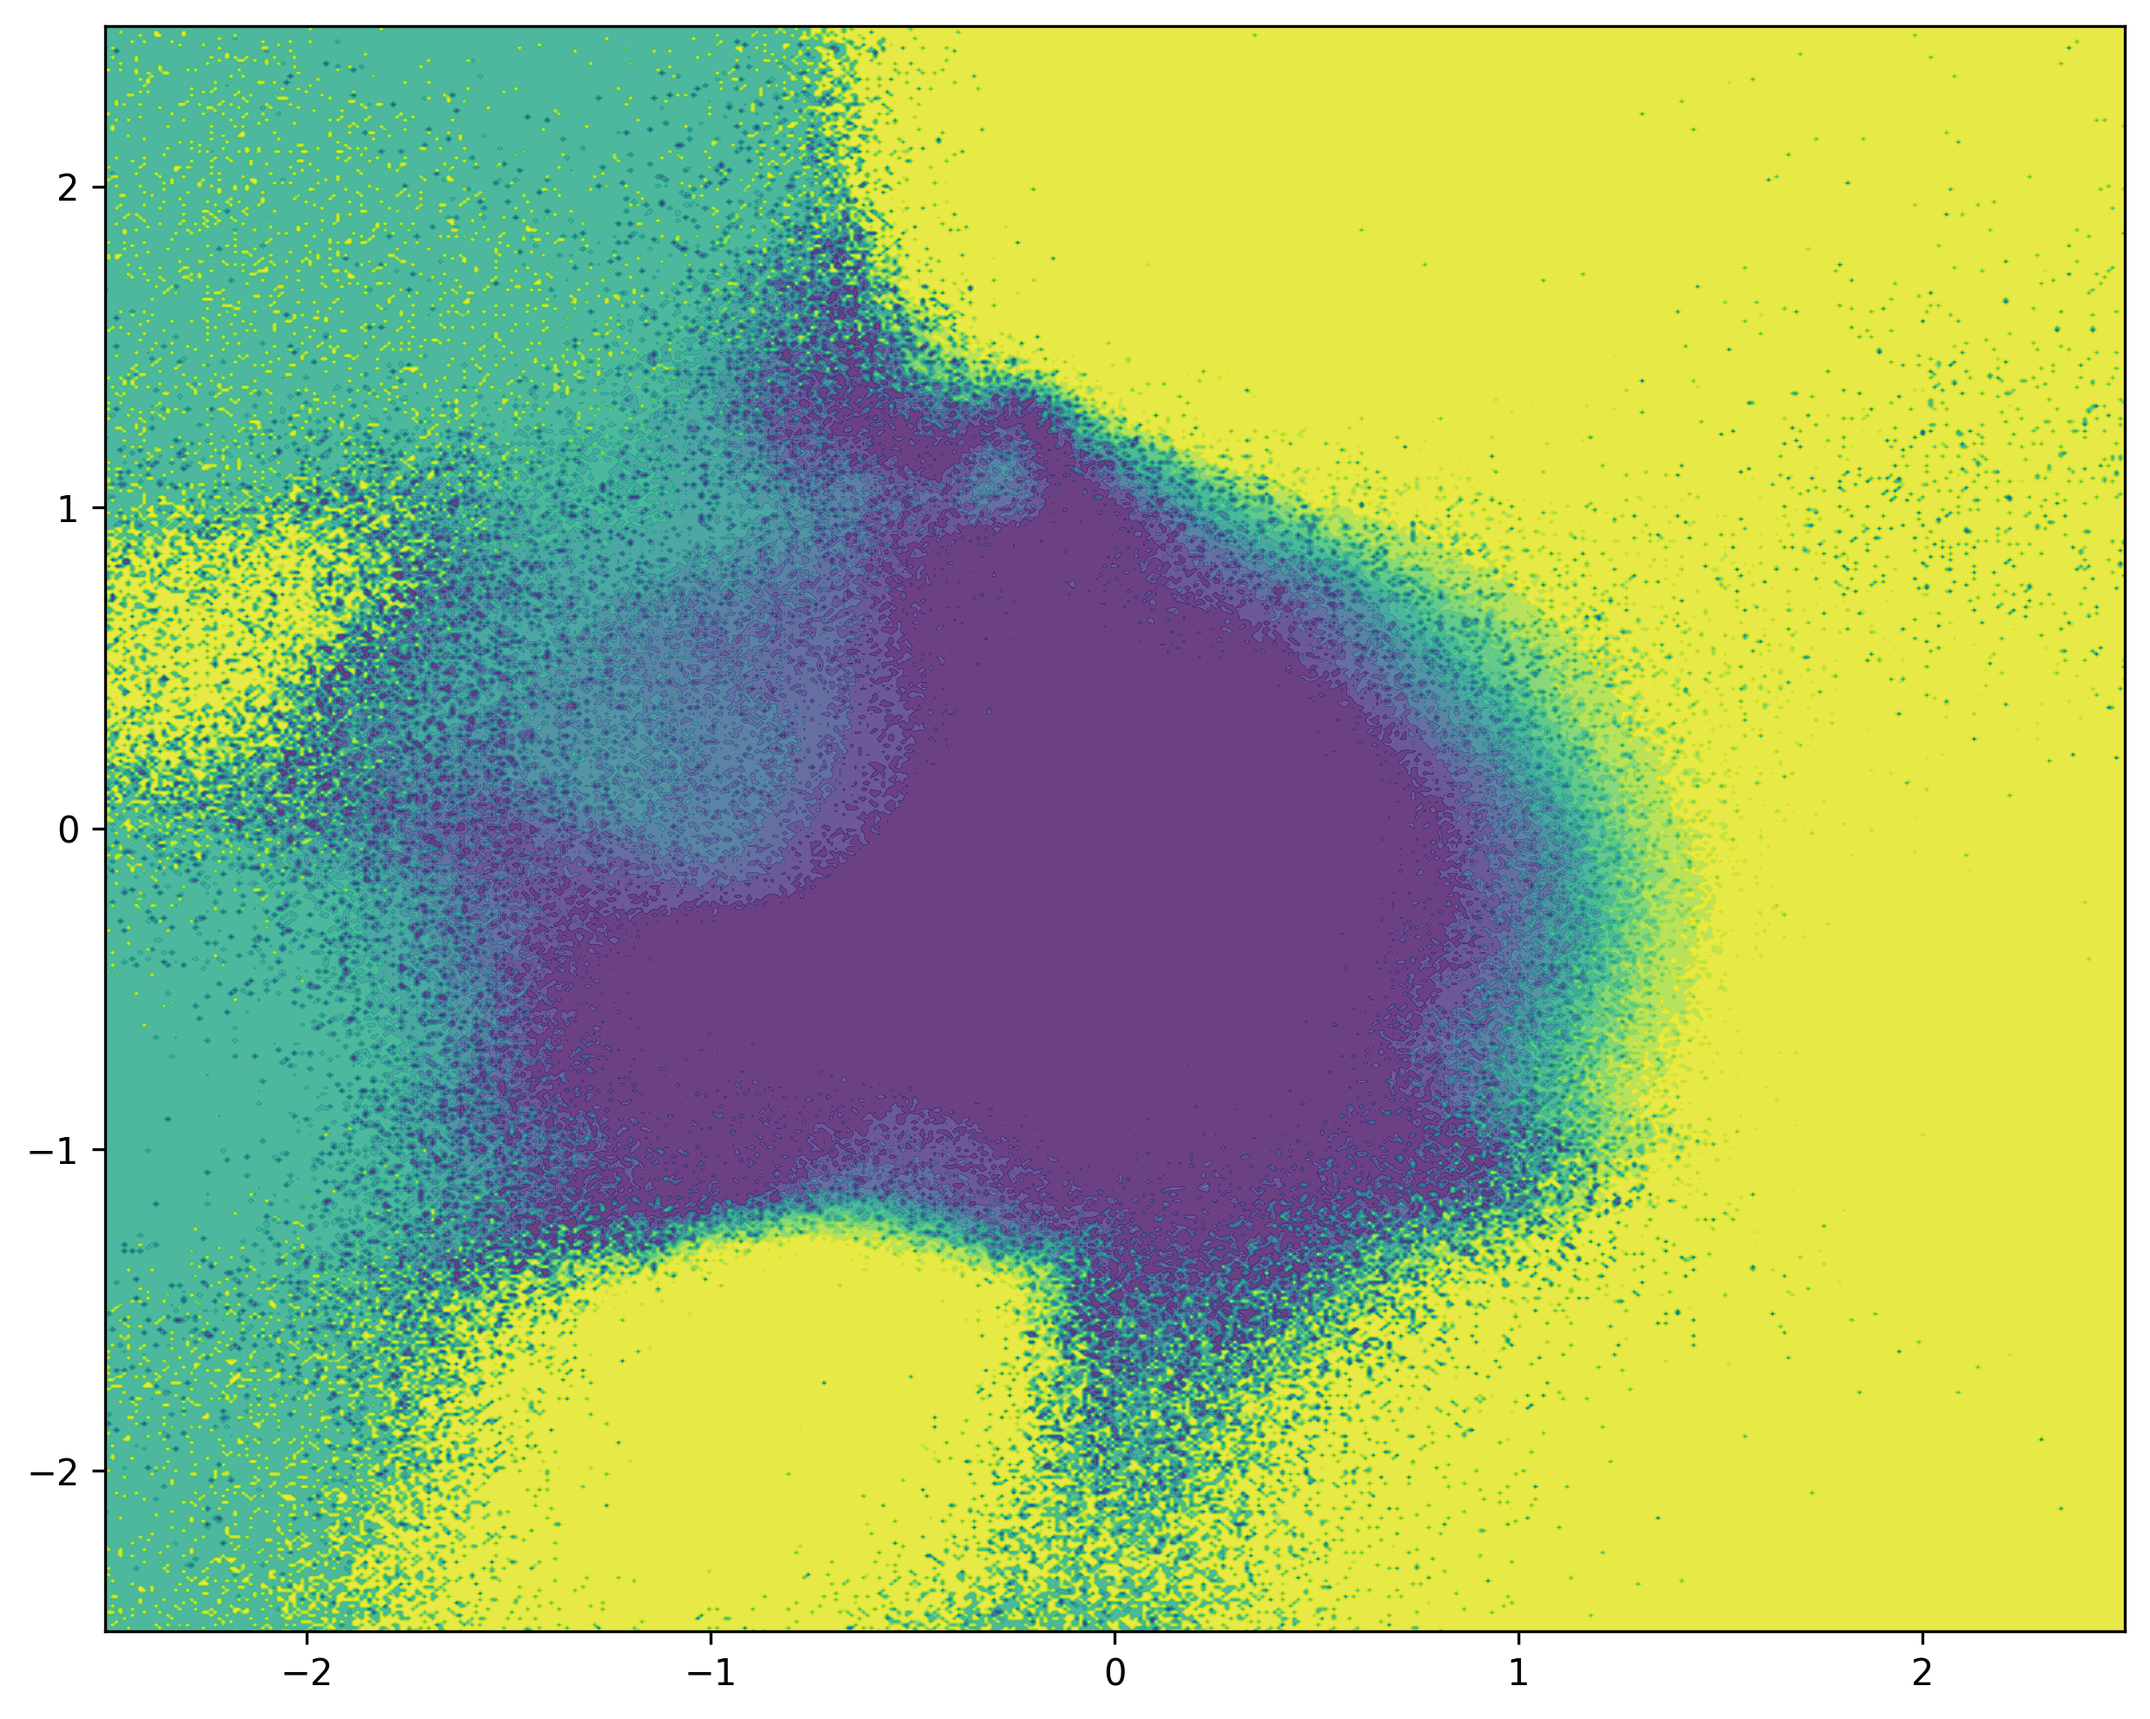
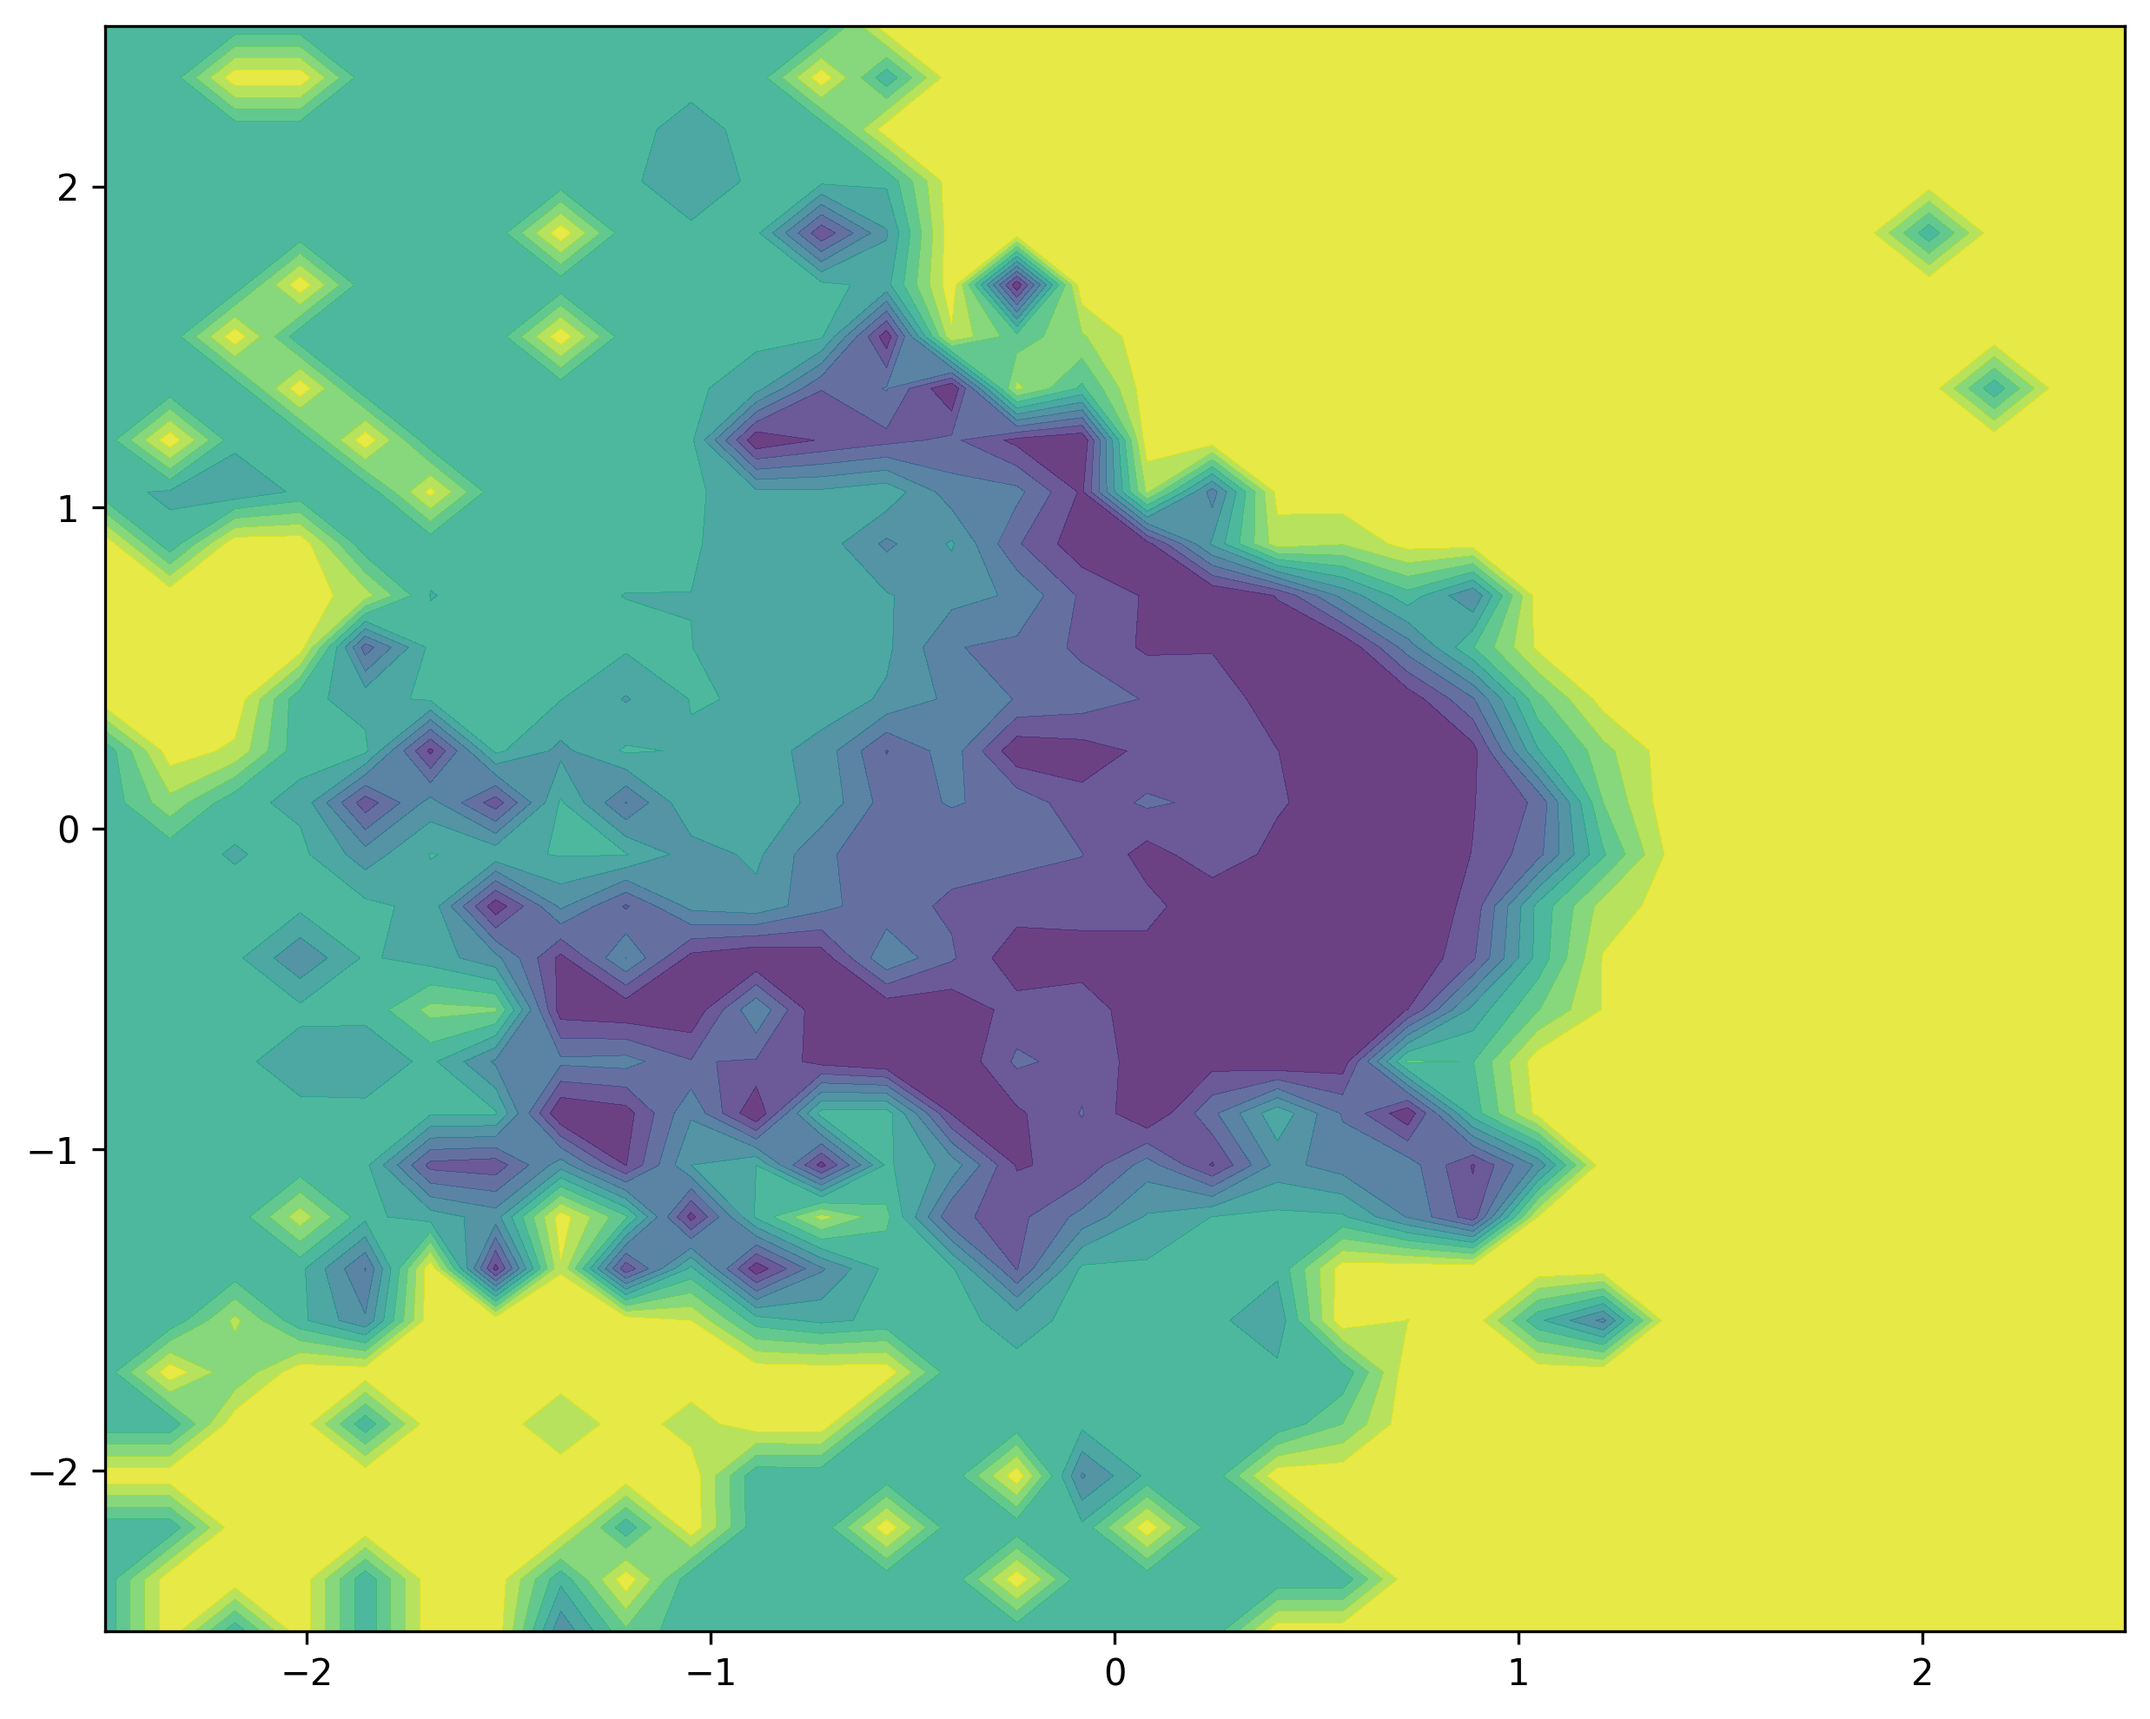
Chapter 5 implementations & moved cube detection model in seperate folder to allow acccess in different chapters.

diff --git a/Chapter 5 - AlexNet/feature_visualisation.py b/Chapter 5 - AlexNet/feature_visualisation.py
@@ -1,0 +1,69 @@
+import torch
+import numpy as np
+import matplotlib.pyplot as plt
+
+from pathlib import Path
+import sys
+
+SHARED_MODEL_DIR = Path(__file__).resolve().parents[1] / "Cube Detection model"
+if str(SHARED_MODEL_DIR) not in sys.path:
+    sys.path.insert(0, str(SHARED_MODEL_DIR))
+
+from model import build_simple_cnn_regressor
+from utils import load_image
+
+# Device (use CUDA when available)
+device = torch.device("cuda" if torch.cuda.is_available() else "cpu")
+
+def main():
+    # Load the trained model checkpoint
+    checkpoint_path = SHARED_MODEL_DIR / "checkpoint.pt"
+
+    checkpoint = torch.load(checkpoint_path, map_location=device)
+
+    model = build_simple_cnn_regressor(bounded_output=True, freeze_backbone=False)
+    model.load_state_dict(checkpoint["model_state_dict"])
+    model.to(device)
+
+    # Get the convolutions of the first layer
+    first_conv_layer = model.encoder.features[0]
+    conv_weights = first_conv_layer.weight.data.cpu().numpy()
+
+    # -----------------------------------------------------------------
+    # Visualize the filters of the first convolutional layer
+    # ------------------------------------------------------------------
+    num_filters = conv_weights.shape[0]
+    fig, axes = plt.subplots(1, num_filters, figsize=(15, 5))
+    for i in range(num_filters):
+        filter_weights = conv_weights[i]
+        filter_weights = (filter_weights - filter_weights.min()) / (filter_weights.max() - filter_weights.min())
+        axes[i].imshow(filter_weights.transpose(1, 2, 0))
+        axes[i].axis("off")
+        axes[i].set_title(f"fil. {i + 1}")
+
+    plt.savefig(Path(__file__).resolve().parent / "filters.png")
+    plt.show()
+
+    # -----------------------------------------------------------------
+    # Visualize the activations of the first convolutional layer
+    # -----------------------------------------------------------------
+    image_path = SHARED_MODEL_DIR / "example.png"
+    image = load_image(image_path, checkpoint=checkpoint).to(device)
+
+    with torch.no_grad():
+        activations = first_conv_layer(image).cpu().numpy()
+
+    num_activations = activations.shape[1]
+    fig, axes = plt.subplots(1, num_activations, figsize=(15, 5))
+    for i in range(num_activations):
+        activation_map = activations[0, i]
+        activation_map = (activation_map - activation_map.min()) / (activation_map.max() - activation_map.min())
+        axes[i].imshow(activation_map, cmap="viridis")
+        axes[i].axis("off")
+        axes[i].set_title(f"act. {i + 1}")
+
+    plt.savefig(Path(__file__).resolve().parent / "activations.png")
+    plt.show()
+
+if __name__ == "__main__":
+    main()

diff --git a/Chapter 2 - Gradient Descent/main.py b/Chapter 2 - Gradient Descent/main.py
@@ -3,6 +3,11 @@ import numpy as np
 import matplotlib.pyplot as plt
 from pathlib import Path
 from collections import OrderedDict
+import sys
+
+SHARED_MODEL_DIR = Path(__file__).resolve().parents[1] / "Cube Detection model"
+if str(SHARED_MODEL_DIR) not in sys.path:
+    sys.path.insert(0, str(SHARED_MODEL_DIR))
 
 from utils import load_image
 from model import build_simple_cnn_regressor
@@ -60,7 +65,7 @@ def normalize_direction(direction, params) -> OrderedDict[str, torch.Tensor]:
 
 def main(num_points=25, alpha_range=(-2.5, 2.5), beta_range=(-2.5, 2.5)):
     # Load the trained model checkpoint
-    checkpoint_path = Path(__file__).resolve().parent / "checkpoint.pt"
+    checkpoint_path = SHARED_MODEL_DIR / "checkpoint.pt"
 
     checkpoint = torch.load(checkpoint_path, map_location=device)
 
@@ -70,7 +75,7 @@ def main(num_points=25, alpha_range=(-2.5, 2.5), beta_range=(-2.5, 2.5)):
 
     # Load the example image
     LABEL = 0.566605
-    image_path = Path(__file__).resolve().parent / "example.png"
+    image_path = SHARED_MODEL_DIR / "example.png"
     image = load_image(image_path, checkpoint)
     image = image.to(device)
 

diff --git a/README.md b/README.md
@@ -29,9 +29,20 @@ This repository contains code implementations and exercise solutions accompanyin
 	- `checkpoint.pt` - trained model parameters used to reproduce the final visualization.
 	- `data/` - source map image assets used to generate coordinate labels.
 
-## Note on Chapter 2 Model Origin
+- [Chapter 5 - AlexNet](Chapter%206%20-%20AlexNet)
+	- `feature_visualisation.py` - visualizes first-layer AlexNet filters and activations using the shared cube-regression checkpoint.
+	- `filters.png` - generated visualization of first convolution filters.
+	- `activations.png` - generated activation maps for an example image.
 
-The Chapter 2 model is intentionally reused from a separate CNN project that predicts how much of a cube is visible in an image (a regression target in the range [0, 1]).
+## Shared Model Origin (Chapter 2 and Chapter 5)
 
-This chapter focuses on visualizing the optimization landscape (loss surface) for that already trained model, rather than training a new model from scratch in this repository.
+The model/checkpoint used by Chapter 2 and Chapter 5 is intentionally reused from the cube detection project in this repository (`Cube Detection model/`).
+
+The original source repository is:
+
+- https://github.com/Waser2004/Athena-Robot-AI
+
+This model predicts how much of a cube is visible in an image (a regression target in the range [0, 1]).
+
+These chapters focus on analyzing and visualizing behavior of the already trained model, rather than training a new model from scratch in this repository.
 	

diff --git a/Chapter 5 - AlexNet/README.md b/Chapter 5 - AlexNet/README.md
@@ -1,0 +1,42 @@
+# Chapter 5 - AlexNet
+
+This chapter explores feature visualization on a trained AlexNet-based regressor.
+It shows both learned first-layer filters and first-layer activations for an example image.
+
+## Key Results
+
+The two visualizations below are the main outputs of this chapter and should be read first.
+
+### First-Layer Filters (`filters.png`)
+
+![First-layer filters](filters.png)
+
+### First-Layer Activations (`activations.png`)
+
+![First-layer activations](activations.png)
+
+## Important Context
+
+The model checkpoint used here is loaded from the shared folder:
+
+- `../Cube Detection model/checkpoint.pt`
+
+That checkpoint originates from the cube detection project source:
+
+- https://github.com/Waser2004/Athena-Robot-AI
+
+## Files
+
+- `feature_visualisation.py`: Loads the shared checkpoint, visualizes first convolution filters, and visualizes first-layer activations for `example.png`.
+- `filters.png`: Saved output image containing visualized first-layer filters.
+- `activations.png`: Saved output image containing activation maps.
+
+## Run
+
+From this directory:
+
+```bash
+python feature_visualisation.py
+```
+
+The script will regenerate `filters.png` and `activations.png`.
